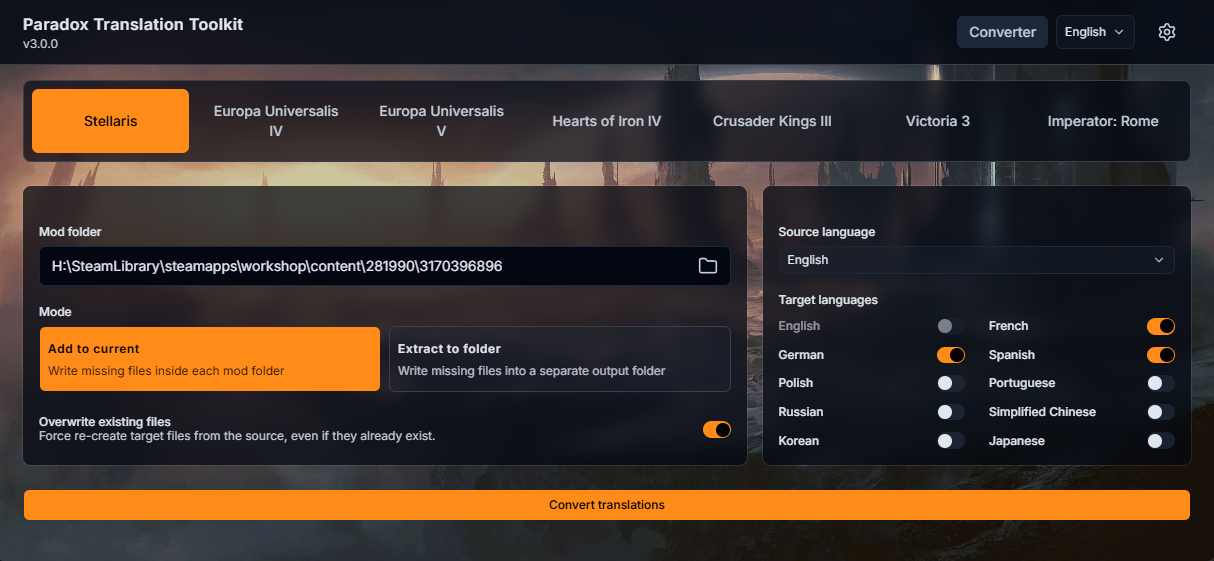
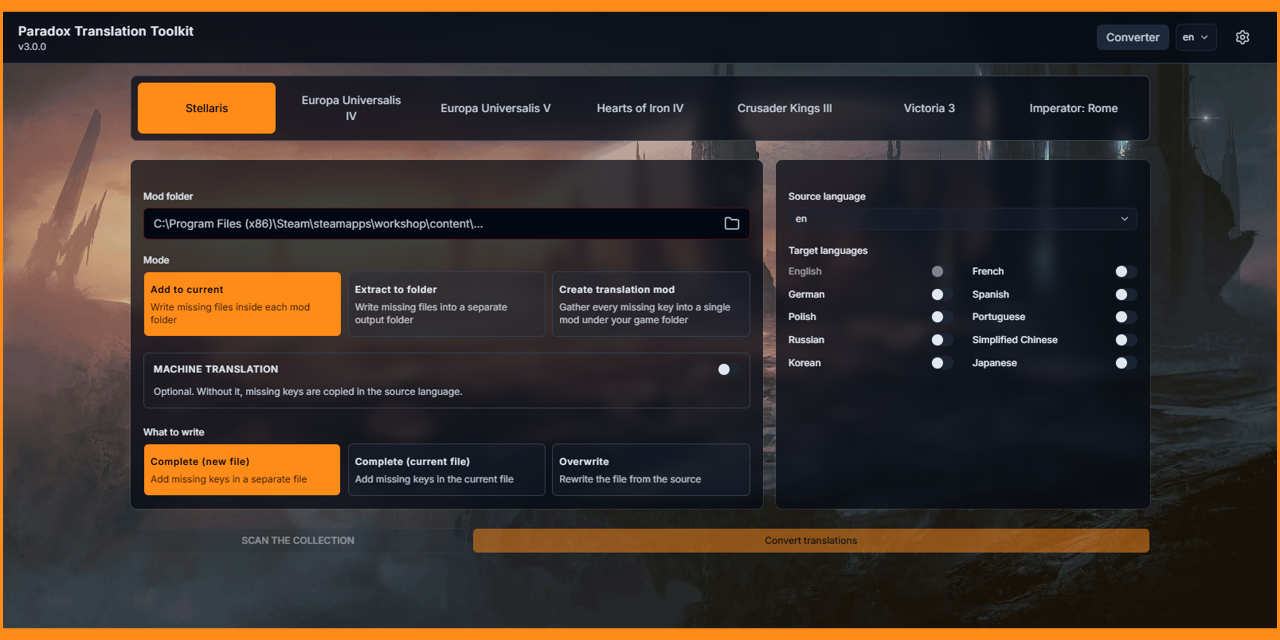
chore: update docs

diff --git a/README.md b/README.md
@@ -60,6 +60,9 @@ The easiest way to manage your missing translation files for Paradox games (and 
 - Remember what was translated, so a stopped run resumes and a repeated string is free
 - Working with multiple paradox games
 
+**Demo**: [https://www.youtube.com/watch?v=V2nhfQZ6cfw](https://www.youtube.com/watch?v=V2nhfQZ6cfw)
+
+
 ## Supported games
 
 | Game                  | Steam ID | Status                       |
